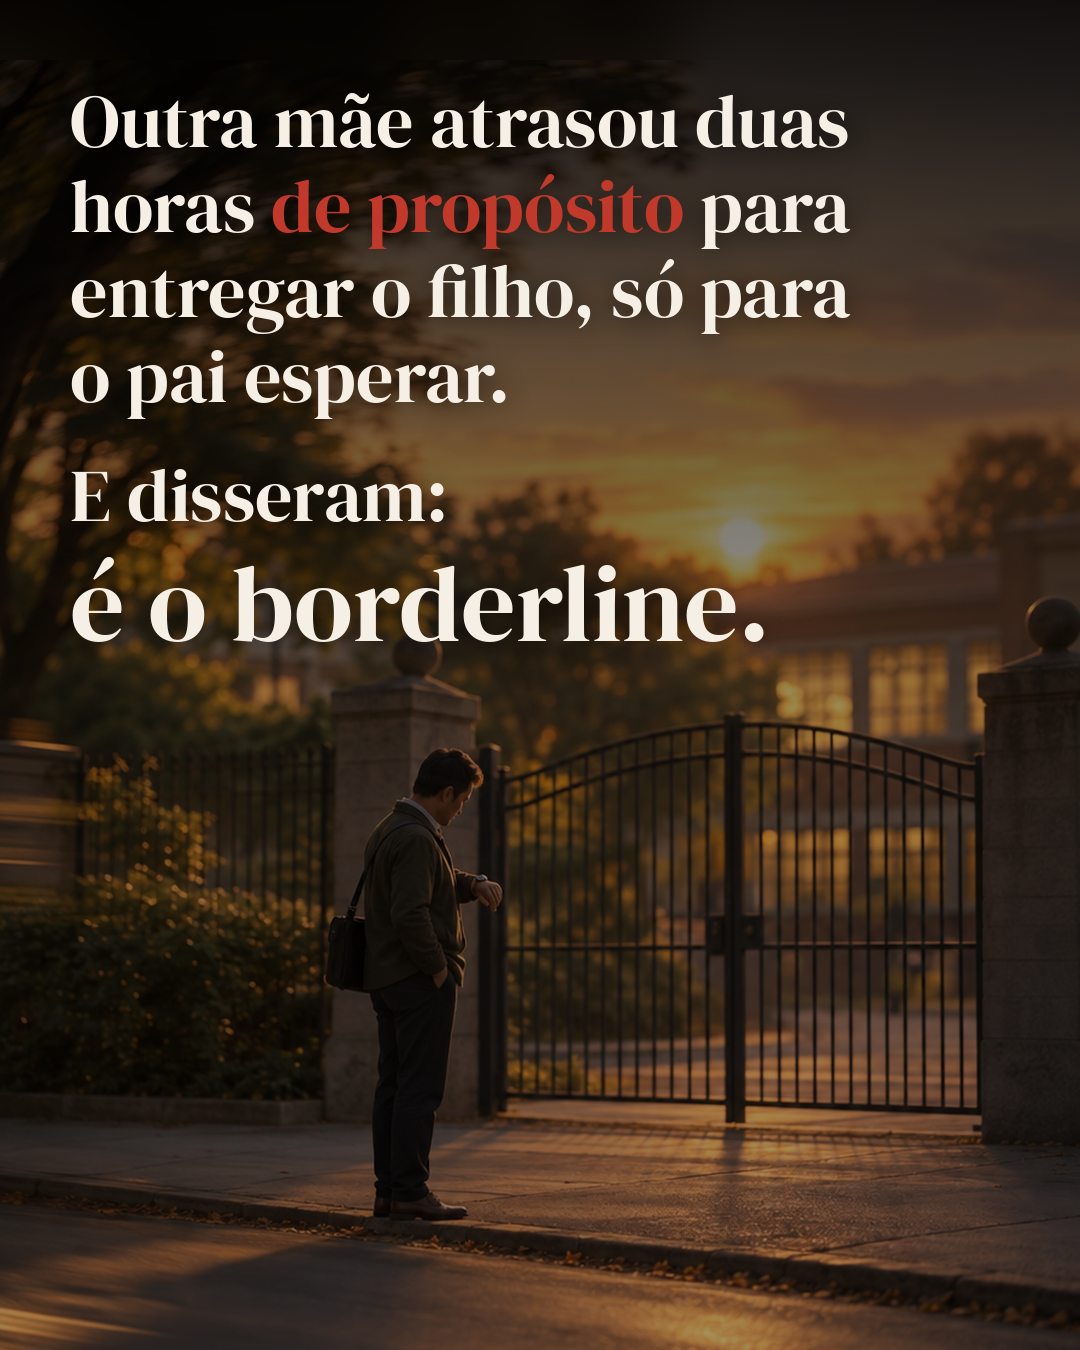
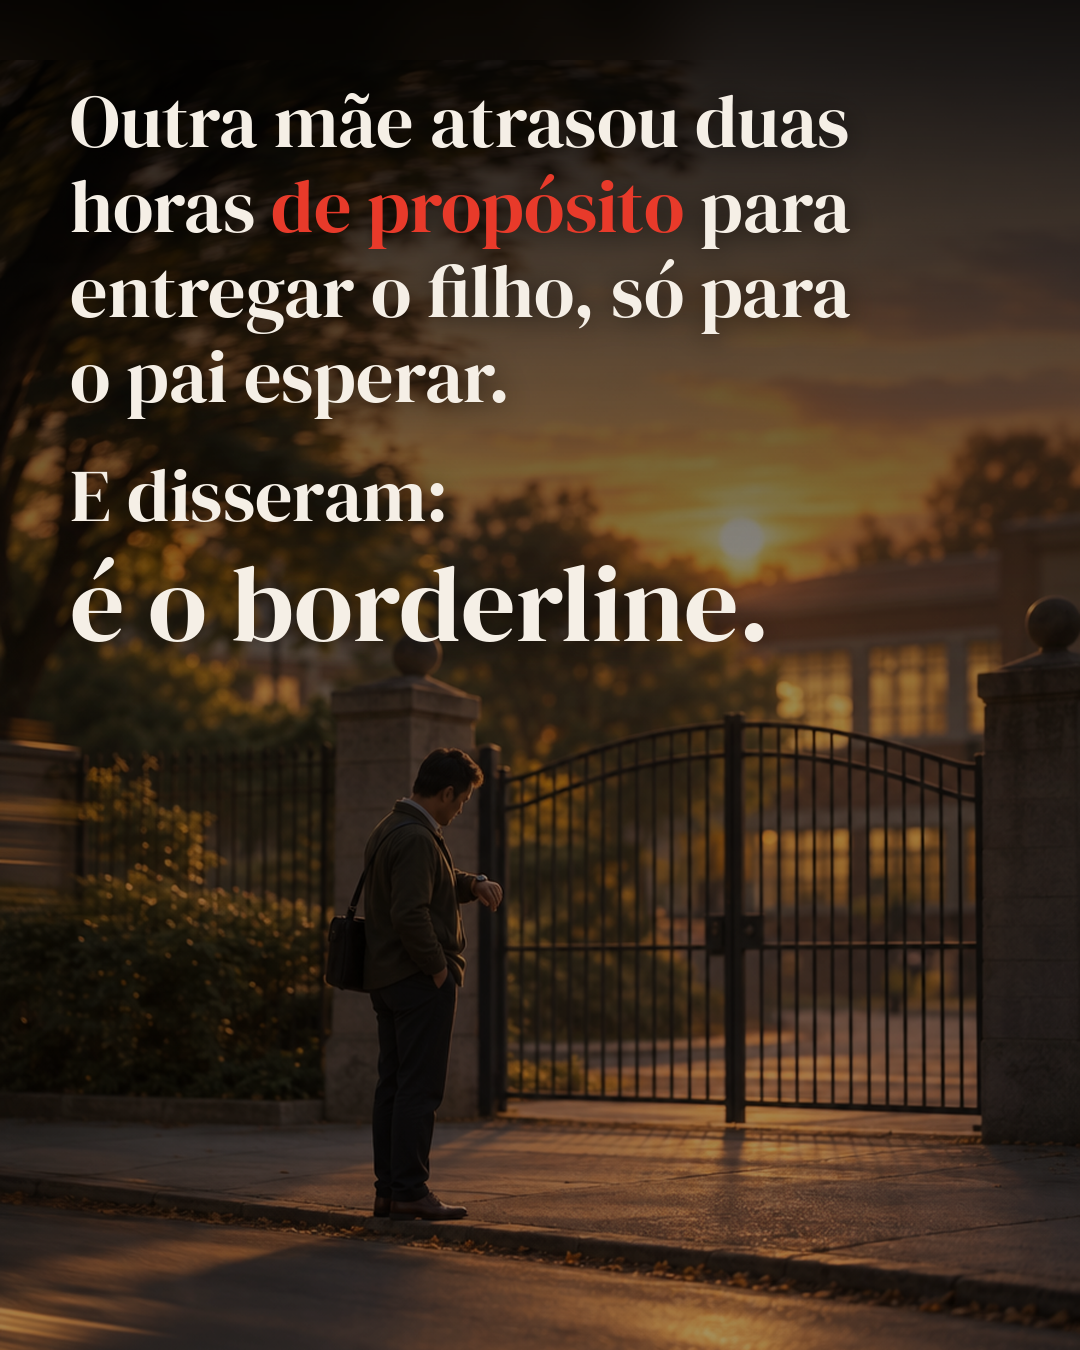
Carrossel mãe borderline: vermelho mais vivo (#E83A2A) em todos os slides
Claude-Session: https://claude.ai/code/session_01Y1aNYrQAZE6rQhxearLeeb

Changed region(s): [[0.3361, 0.1244, 0.6417, 0.1867], [0.2444, 0.1244, 0.3056, 0.1867]]

diff --git a/carrosseis/mae-borderline-regua/gerar.py b/carrosseis/mae-borderline-regua/gerar.py
@@ -3,7 +3,7 @@ from PIL import Image, ImageDraw, ImageFont, ImageFilter
 D = os.path.dirname(os.path.abspath(__file__))
 F = os.path.join(D, 'fontes')
 W, H, M = 1080, 1350, 70
-OFF, RED = (245, 239, 230), (192, 57, 43)
+OFF, RED = (245, 239, 230), (232, 58, 42)
 FONT = os.path.join(F, 'DMSerifDisplay-Regular.ttf')
 CAPA = os.path.join(F, 'capa.png')
 PROVISORIO = not os.path.exists(CAPA)
